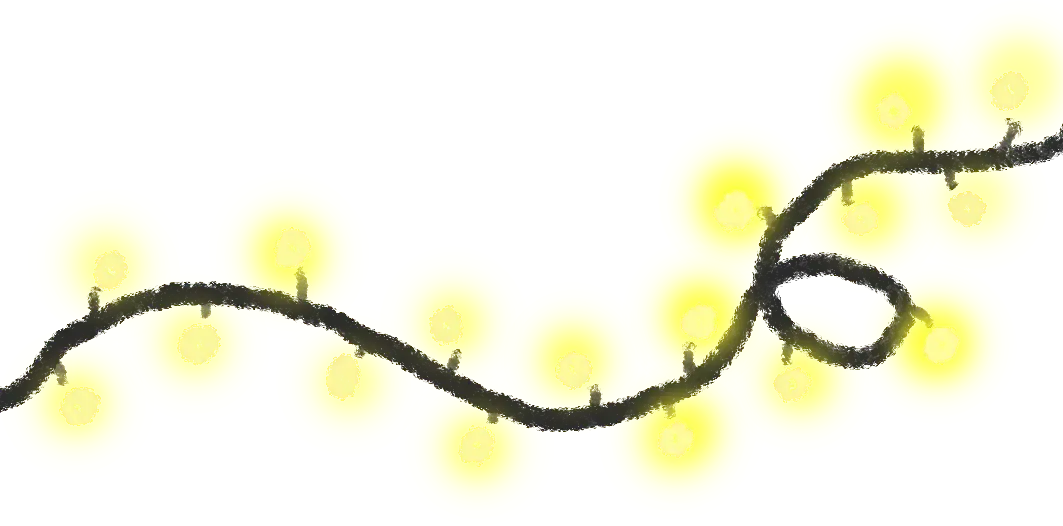
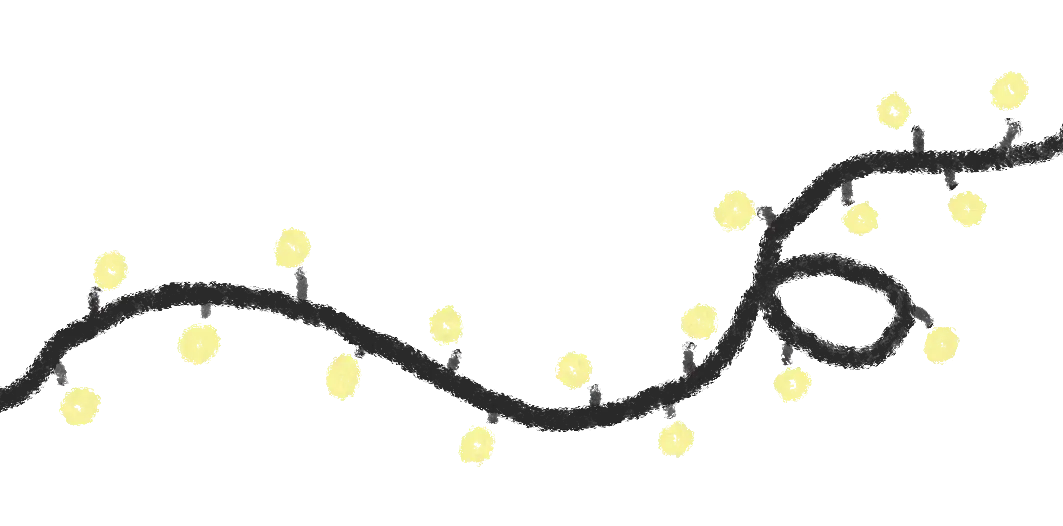
[design] 불빛 애니메이션 적용, 불필요 이미지 제거

diff --git a/src/pages/loading/loadingPage.js b/src/pages/loading/loadingPage.js
@@ -1,10 +1,9 @@
 import React, { useEffect } from "react";
 import { useNavigate } from "react-router-dom";
+import styles from "./loadingPage.module.css";
 
-// 우선 로드 이미지
 const bgBlue = "/assets/webp/bgBlue.webp";
 
-// 이미지 목록 반환
 const getImageList = () => {
   return [
     "/assets/webp/bgBlue.webp",
@@ -24,7 +23,6 @@ const getImageList = () => {
   ];
 };
 
-// 이미지 미리 로드 함수
 const preloadImages = (images) => {
   return Promise.all(
     images.map((src) => {
@@ -38,7 +36,6 @@ const preloadImages = (images) => {
   );
 };
 
-// 단일 이미지 우선 로드 함수
 const preloadSingleImage = (src) => {
   return new Promise((resolve) => {
     const img = new Image();
@@ -53,30 +50,23 @@ function LoadingPage() {
 
   useEffect(() => {
     const images = getImageList();
-    const minimumDelay = new Promise((resolve) => setTimeout(resolve, 2000)); // 최소 2초 유지
+    const minimumDelay = new Promise((resolve) => setTimeout(resolve, 2000));
 
-    // 1. bgBlue 우선 로드
     preloadSingleImage(bgBlue)
-      .then(() => {
-        // 2. 나머지 이미지 비동기 로드
-        return Promise.all([preloadImages(images), minimumDelay]);
-      })
+      .then(() => Promise.all([preloadImages(images), minimumDelay]))
       .then(() => {
         console.log("All images loaded successfully!");
-        navigate("/loginPage"); // 페이지 이동
+        navigate("/loginPage");
       })
       .catch((error) => {
         console.error("Error loading images:", error);
-        navigate("/loginPage");
       });
   }, [navigate]);
 
   return (
     <div
       className="flex flex-col justify-between h-full items-center bg-cover bg-center relative"
-      style={{
-        backgroundImage: `url(${bgBlue})`,
-      }}
+      style={{ backgroundImage: `url(${bgBlue})` }}
     >
       <div className="w-full absolute top-[12%] px-14">
         <img
@@ -101,7 +91,18 @@ function LoadingPage() {
         />
       </div>
       <div
-        className="w-[88%] absolute animate__animated animate__fadeIn animate__delay-1s"
+        className={`w-[88%] absolute ${styles["soft-blink"]}`}
+        style={{
+          top: "52%",
+          left: "50%",
+          transform: "translate(-50%, -50%)",
+          textAlign: "center",
+        }}
+      >
+        <img src="/assets/webp/starsBlur.webp" alt="별빛" />
+      </div>
+      <div
+        className="w-[88%] absolute z-10"
         style={{
           top: "52%",
           left: "50%",

diff --git a/src/pages/main/MainPage.js b/src/pages/main/MainPage.js
@@ -1,8 +1,7 @@
 import React, { useRef, useState, useEffect } from "react";
 import { useNavigate } from "react-router-dom";
 import html2canvas from "html2canvas";
-
-import goToRegisterBtn from "../../assets/goToRegisterBtn.png";
+import styles from "./MainPage.module.css";
 
 import { fetchUserData, fetchMainPageData } from "../../api/service.js";
 
@@ -241,13 +240,30 @@ function Main() {
     fetchData();
   }, []);
 
+  const randomDuration = () => {
+    return `${Math.random() * 1 + 1}s`; // 1초에서 4초 사이 랜덤 시간
+  };
+
   return (
     <div
       className="main-area flex flex-grow flex-col justify-center relative w-full h-full bg-cover"
       style={{
-        backgroundImage: `url(/assets/webp/bulbFull.webp), url(/assets/webp/glitter.webp), url(/assets/webp/checkPattern.webp)`,
+        backgroundImage: `url(/assets/webp/glitter.webp), url(/assets/webp/checkPattern.webp)`,
       }}
     >
+      <div
+        className={`w-full absolute top-0 w-[88%] absolute ${styles["soft-blink"]}`}
+      >
+        <img src="/assets/webp/bulbTopBlur.webp" alt="bulb bottom" />
+      </div>
+      <div className="w-full absolute top-0">
+        <img src="/assets/webp/bulbTop.webp" alt="bulb bottom" />
+      </div>
+      <div
+        className={`w-full absolute bottom-0 w-[88%] absolute ${styles["soft-blink"]}`}
+      >
+        <img src="/assets/webp/bulbBtmBlur.webp" alt="bulb bottom" />
+      </div>
       <div className="w-full absolute bottom-0">
         <img src="/assets/webp/bulbBtm.webp" alt="bulb bottom" />
       </div>

diff --git a/src/pages/loading/loadingPage.module.css b/src/pages/loading/loadingPage.module.css
@@ -1,0 +1,13 @@
+@keyframes softBlink {
+  0%,
+  100% {
+    opacity: 0.7;
+  }
+  50% {
+    opacity: 0;
+  }
+}
+
+.soft-blink {
+  animation: softBlink 2s ease-in-out infinite;
+}

diff --git a/src/pages/main/MainPage.module.css b/src/pages/main/MainPage.module.css
@@ -1,0 +1,13 @@
+@keyframes softBlink {
+  0%,
+  100% {
+    opacity: 1;
+  }
+  50% {
+    opacity: 0.5;
+  }
+}
+
+.soft-blink {
+  animation: softBlink 2s ease-in-out infinite;
+}
